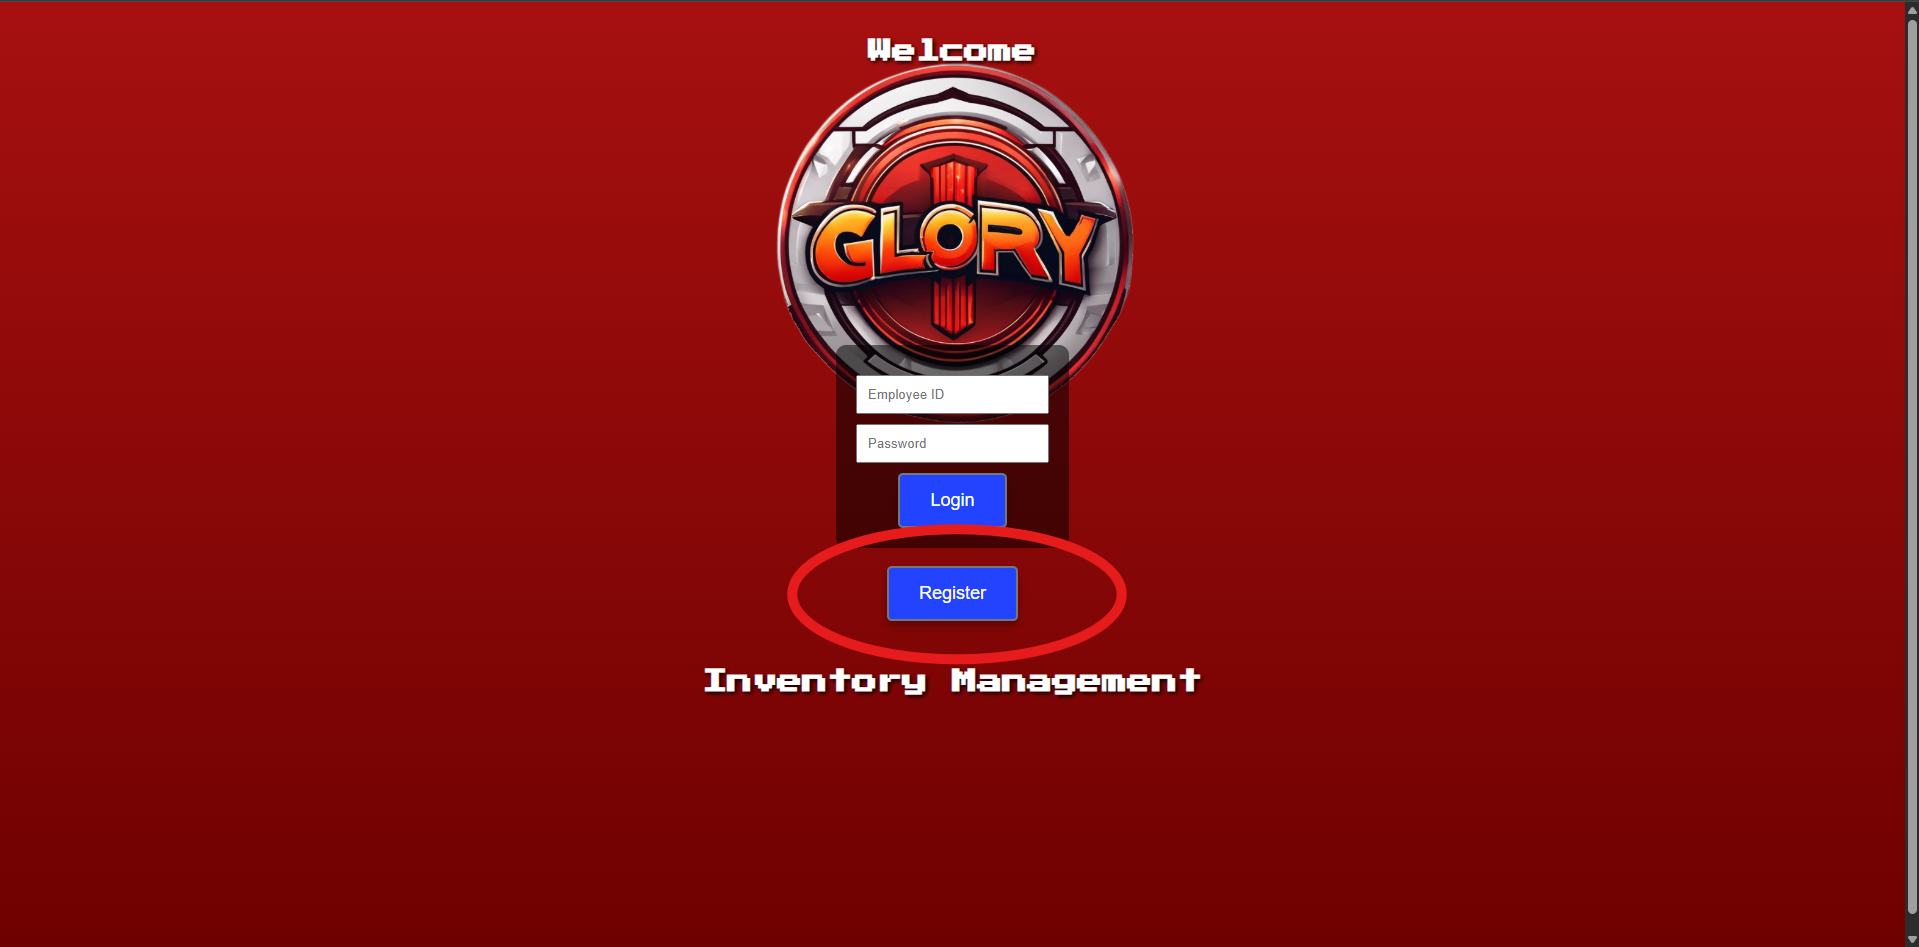
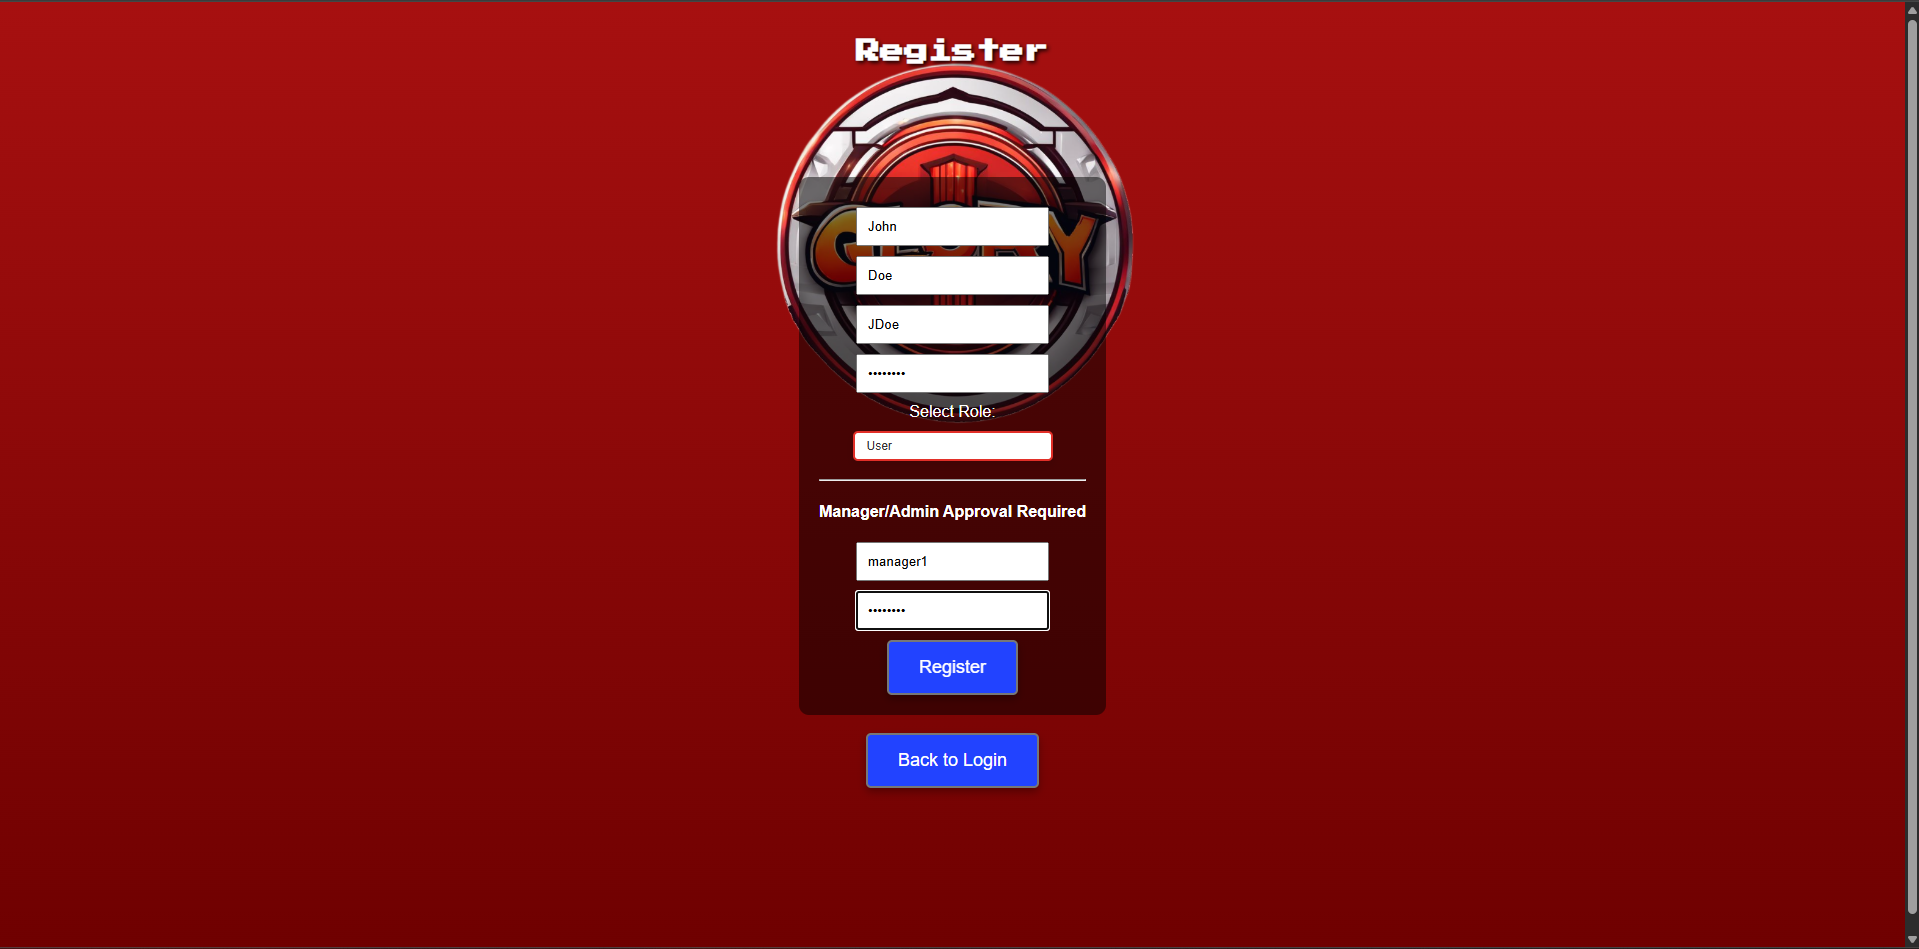
Update Documentation
Updated user guide to include images

Changed region(s): [[0.3689, 0.1225, 0.6456, 0.8574], [0.0, 0.9799, 1.0, 1.0], [0.4304, 0.0306, 0.5534, 0.0919]]

diff --git a/docs/glory_days_user_manual.md b/docs/glory_days_user_manual.md
@@ -54,7 +54,7 @@ The application includes the following core functionalities:
 1. A manager must be present to oversee your registration.  
 2. From the login page, click the **Register** button.
 
-![Registration Page](example_images/registration.png)
+![Registration button](example_images/registration_button.png)
 
 3. On the registration screen, enter your:
    - First Name  
@@ -65,6 +65,8 @@ The application includes the following core functionalities:
 5. The assisting manager must enter their admin ID and password to approve your registration.  
 6. Click **Register** to complete the process. You will be redirected to the login page.
 
+![Filled out registration page](example_images/registration_screen.png)
+
 ---
 
 #### Logging Into Your Account
@@ -72,13 +74,15 @@ The application includes the following core functionalities:
 1. Enter your Employee ID and Password on the login page.  
 2. Click **Login**.  
 3. If the credentials are valid, you'll be redirected to the main inventory interface.
+![Example of logging in](example_images/login_example.png)
 
 ---
 
 #### Adding Inventory Items
 
 1. After logging in, you will be directed to the inventory page.  
-2. To add a new game, click the **Add** button.  
+2. To add a new game, click the **Add Item** button.  
+![Example of the add button](example_images/add_button.png)
 3. Fill in the following fields:
    - **Name**: Enter the exact game title as printed.  
    - **Platform**: Choose from PlayStation, Xbox, PC, Switch, or Other.  
@@ -91,13 +95,14 @@ The application includes the following core functionalities:
    - **Stock**: Quantity of this game to add  
    - **Price**: Enter the price per item  
 4. Click **Add** to submit the game into inventory.
-
+![Example of the add window with Red Dead Redemption II as an example](example_images/add_popup.png)
 ---
 
 #### Searching Inventory
 
 Use the search bar at the top of the inventory page to locate games by name or SKU. This allows for quick access when editing, selling, or verifying inventory.
 
+![Search bar example](example_images/search_example.png)
 ---
 
 #### Removing Inventory Items
@@ -106,7 +111,9 @@ If an item was added in error:
 
 1. Click the **Delete** button next to the item.  
 2. Confirm the deletion by typing **Delete** in the popup box.  
-3. Click **OK** to remove the item from the system.  
+3. Click **OK** to remove the item from the system.
+
+![Delete item example](example_images/delete_item_example.png)
 
 > **Note:** This is not the same as processing a sale. Use the **Sell** function to record sales.
 
@@ -121,7 +128,9 @@ If an item was added in error:
    - **Sale Price**: (Optional) Adjust only if a discount is applied  
 4. Click **Submit** to finalize the transaction.
 
-> The system automatically adjusts stock and logs the sale.
+![Selling an item](example_images/sell_example.png)
+
+> The system automatically adjusts pricing per item in stock and logs the sale.
 
 ---
 
@@ -136,6 +145,7 @@ If an item was added in error:
 3. Select **Admin** from the role dropdown.  
 4. Another manager must confirm your registration with their credentials.
 
+![Example of an admin registration](example_images/admin_register_example.png)
 ---
 
 #### Managing Employees
@@ -145,6 +155,8 @@ If an item was added in error:
 3. To remove an employee, click **Delete** next to their name.  
 4. Confirm the deletion.
 
+![Example of the user list panel](example_images/user_list_example.png)
+
 > **Caution:** Do not delete your own account. You will need a fellow manager to re-register you.
 
 ---
@@ -152,10 +164,11 @@ If an item was added in error:
 #### Viewing Sales
 
 1. Access the Admin Panel.  
-2. Click the **View Sales** button.  
+2. Click the **View Sales** button.
+![View sales button example](example_images/view_sales_button.png)
 3. Review the sales history, which includes game titles, quantities sold, and prices.  
 4. Use the **Save as PDF** button to export a copy of the report.
-
+![Example of sales page](example_images/sales_page_example.png)
 ---
 
 #### Setting Up New Employees
